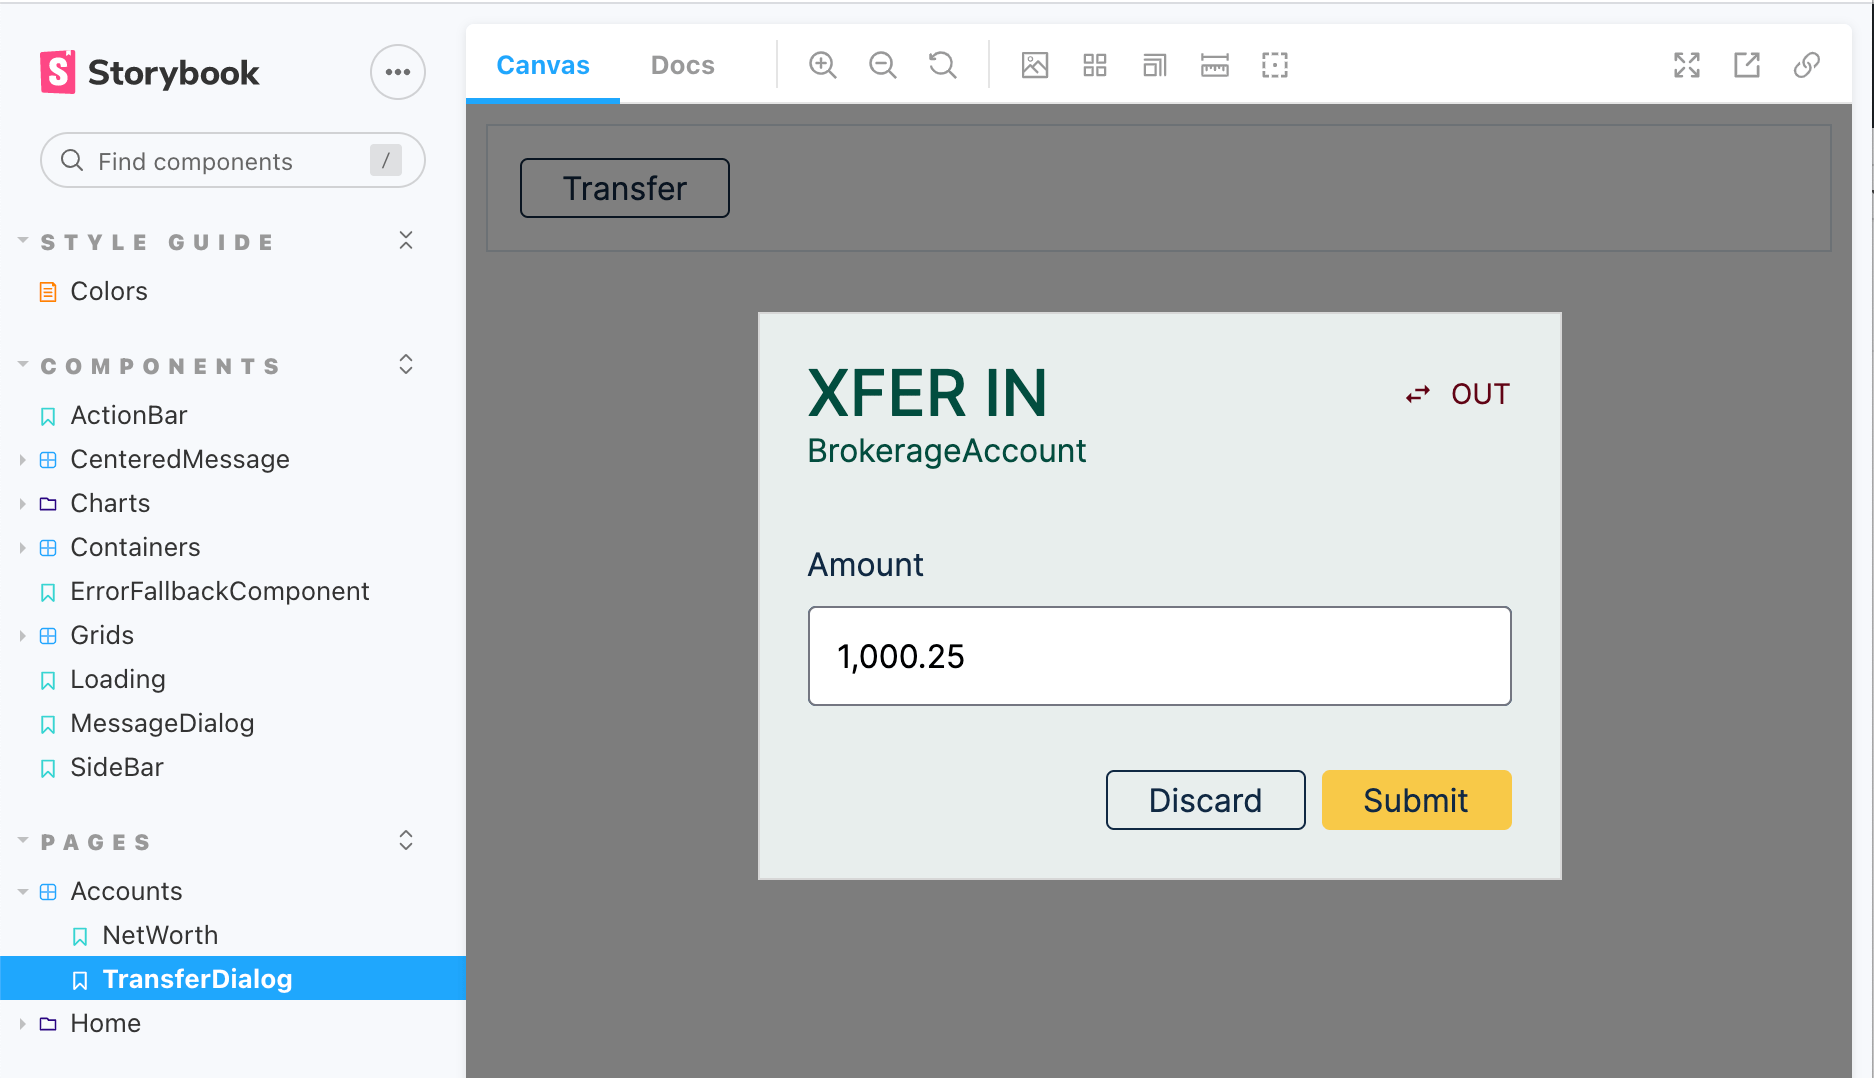
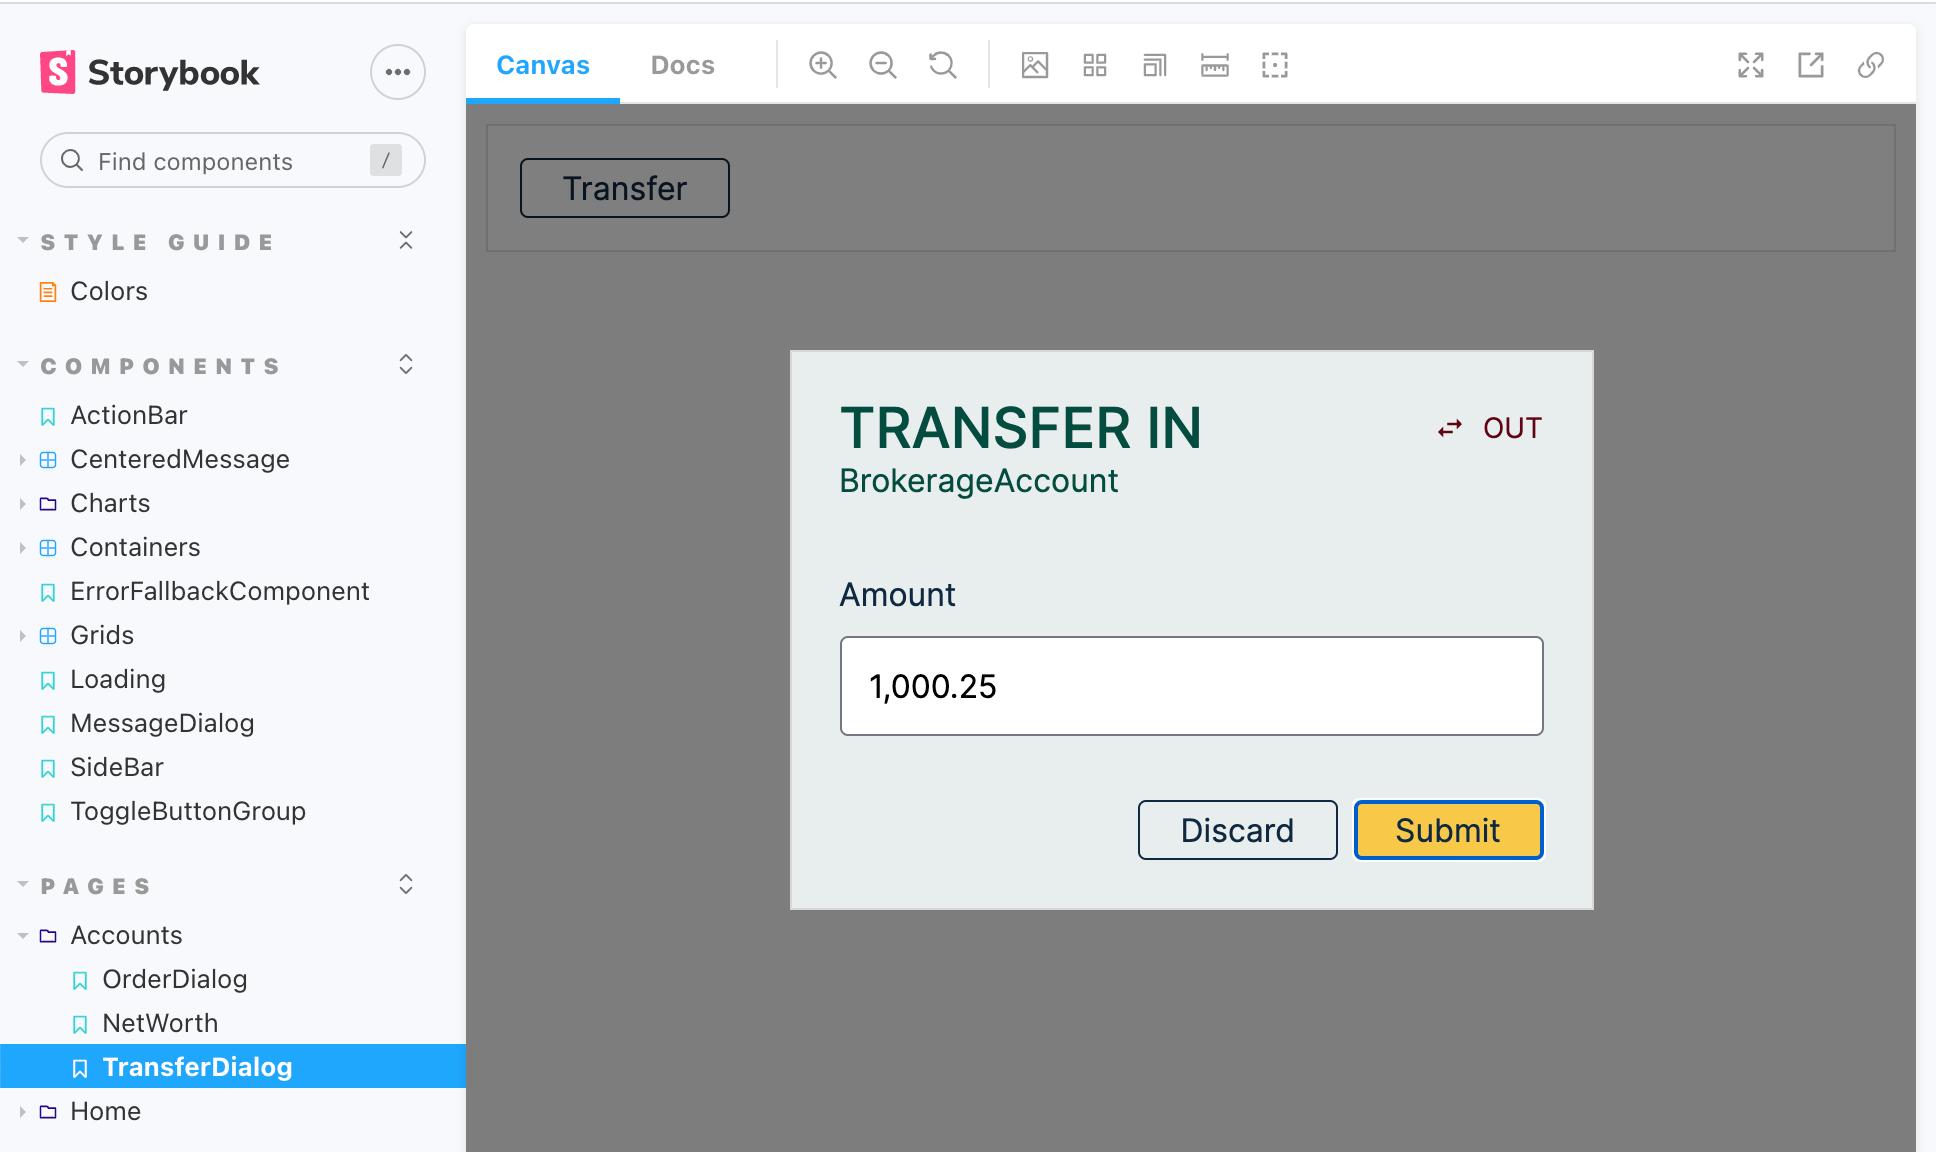
Changed TransferDialog heading from XFER to TRANSFER

diff --git a/exercises/exercise-15-transfer-dialog.md b/exercises/exercise-15-transfer-dialog.md
@@ -9,7 +9,7 @@ and repeated below for quick reference.
 The transfer dialog is opened by clicking the _Transfer_ button in the account
 header. It shows the following elements:
 
-1. Title: XFER IN or XFER OUT
+1. Title: TRANSFER IN or TRANSFER OUT
 2. Subtitle: The account in which the transfer is requested
 3. Direction toggle: Allows to toggle the transfer direction between In & Out
 4. Amount field: For entering transfer amount - up to 2 decimal places. As the
